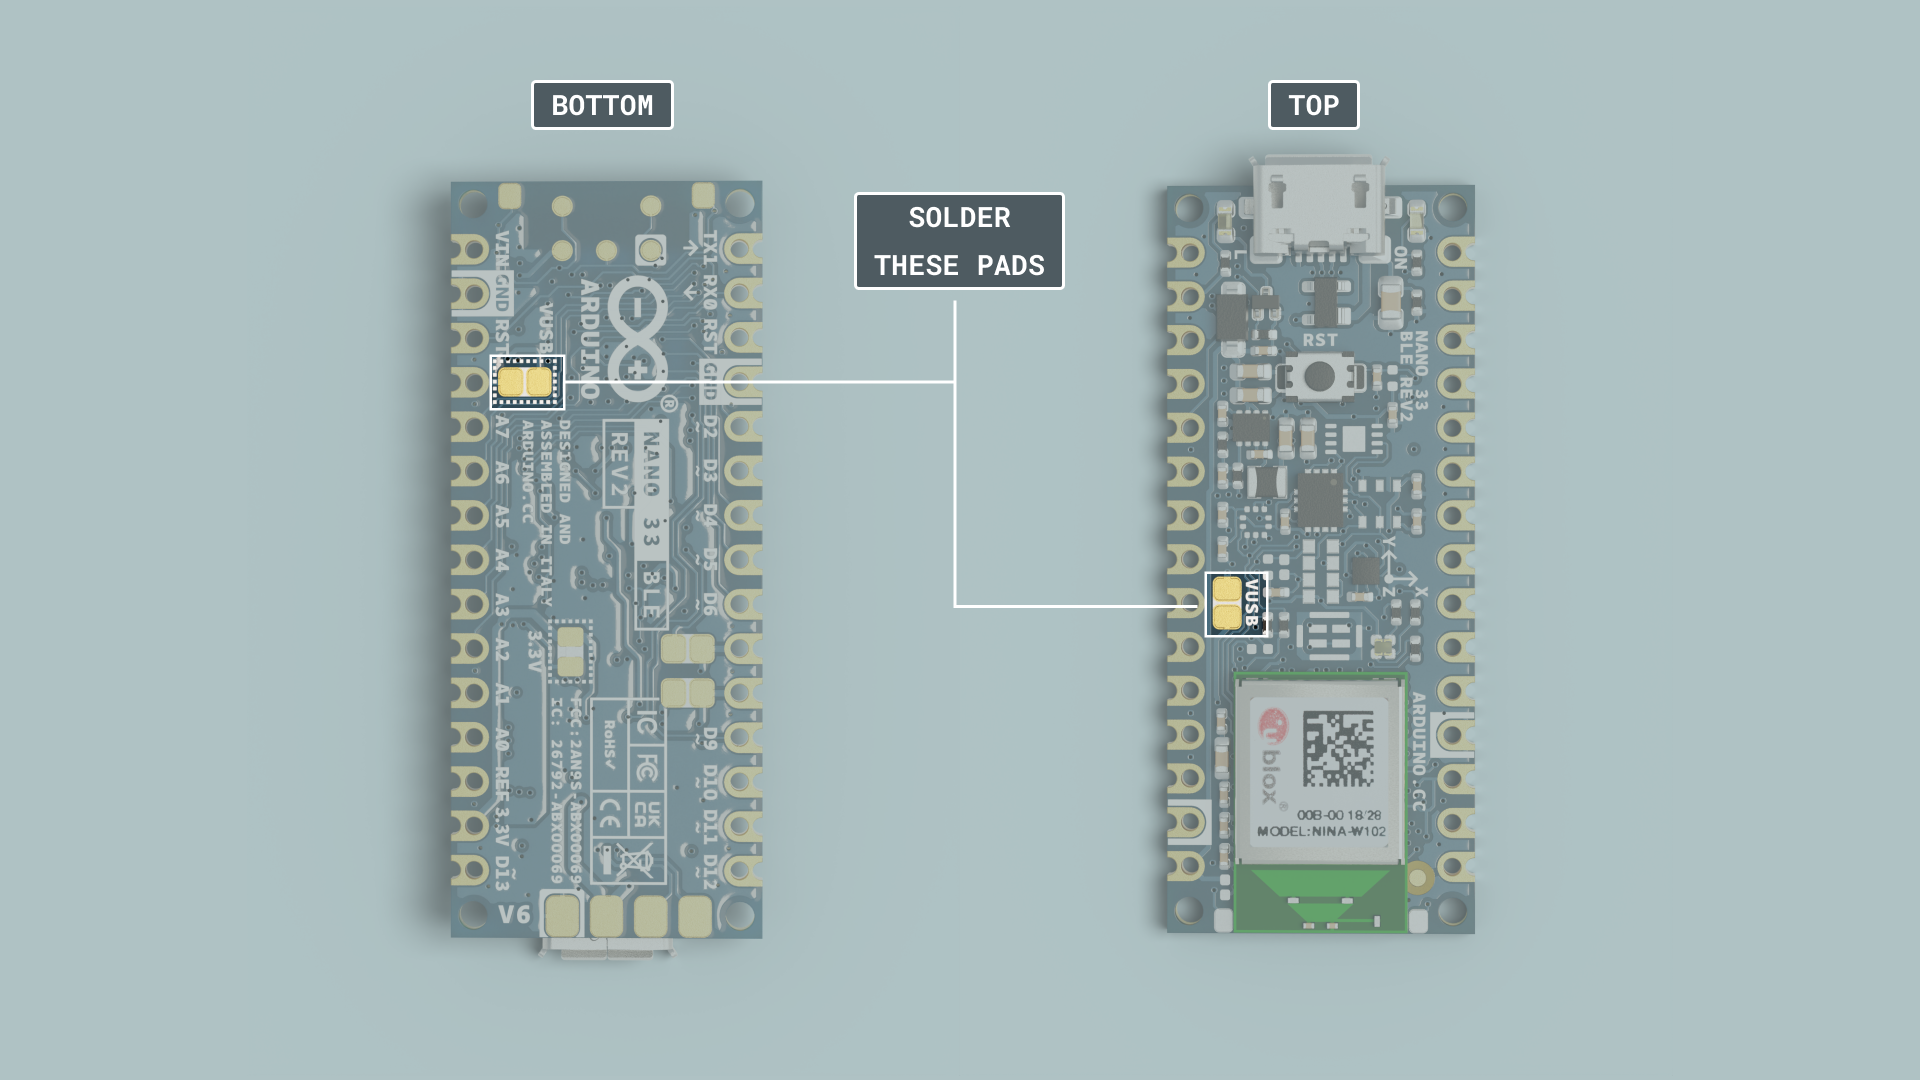
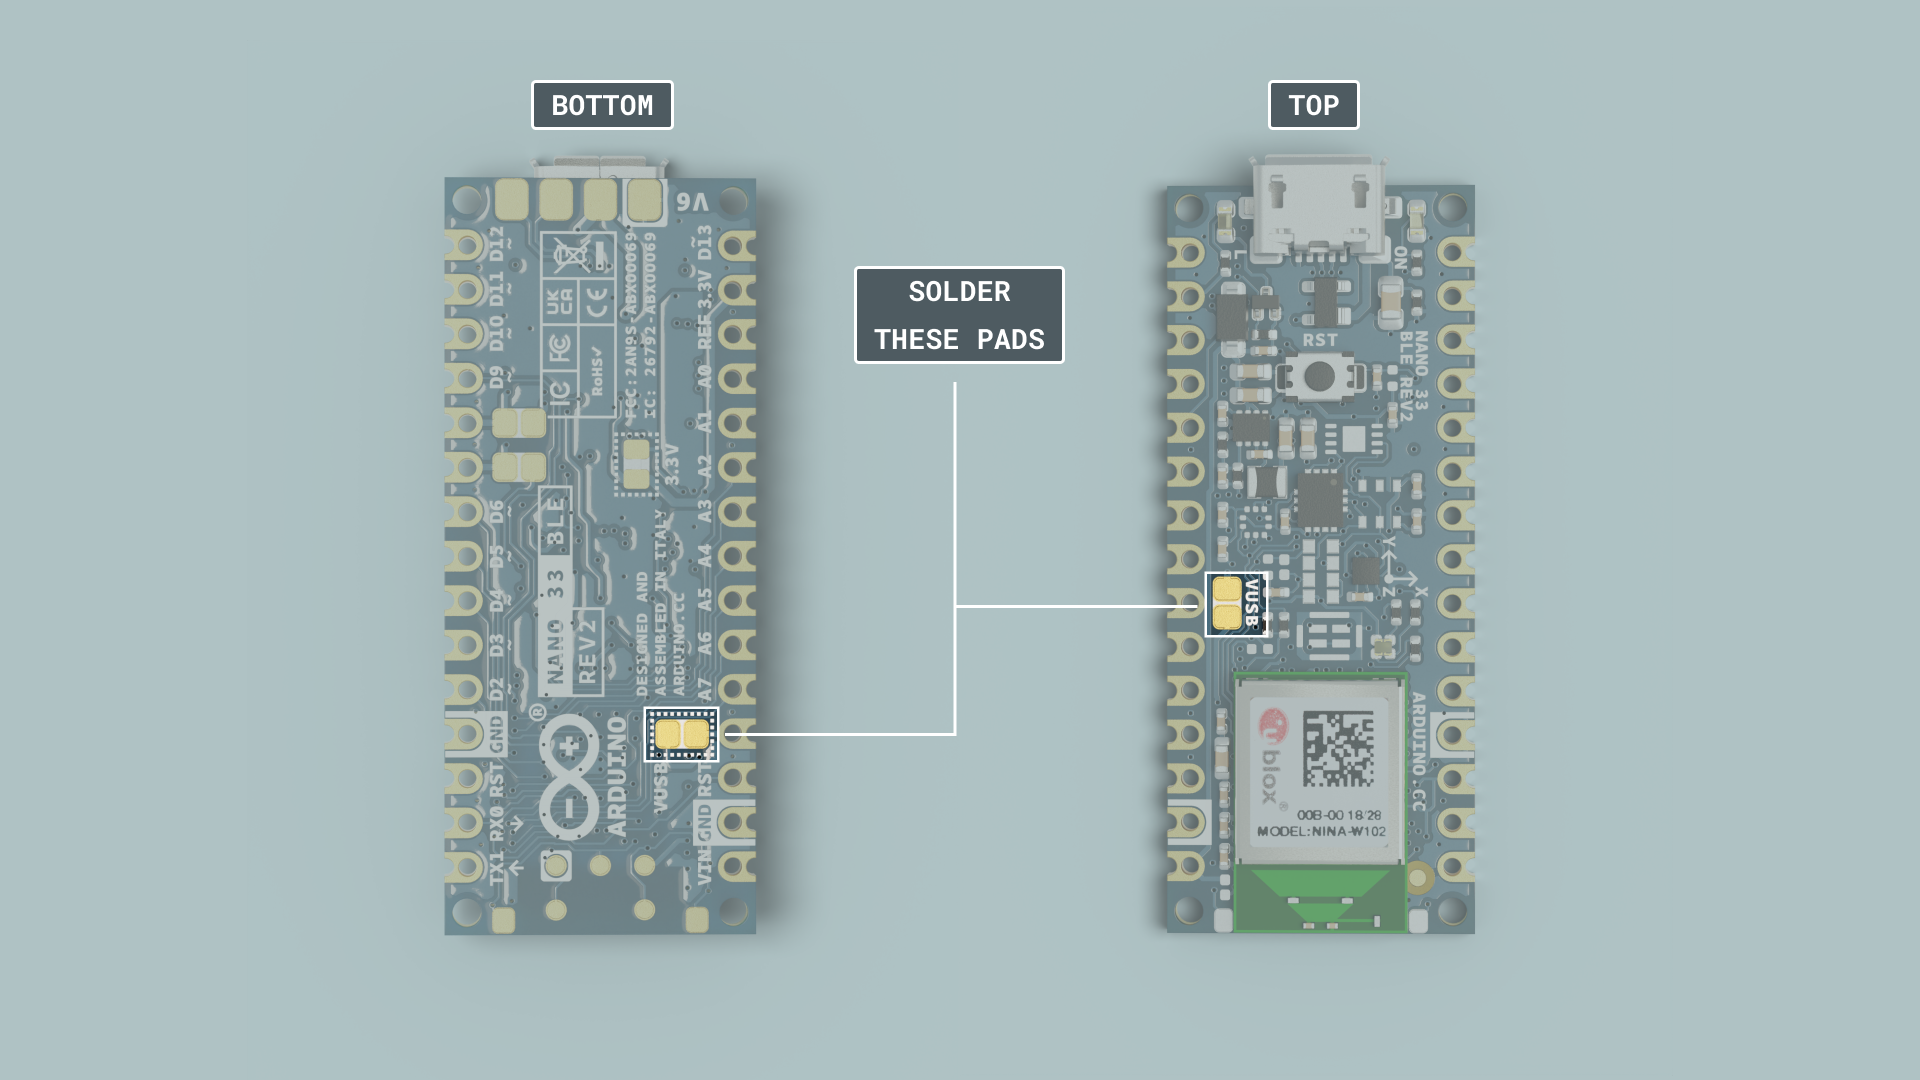
update assets

Changed region(s): [[0.2188, 0.1222, 0.5625, 0.8861], [0.4688, 0.6722, 0.5, 0.7028]]

diff --git a/content/hardware/03.nano/boards/nano-33-ble-rev2/tutorials/cheat-sheet/ble-cheat-sheet.md b/content/hardware/03.nano/boards/nano-33-ble-rev2/tutorials/cheat-sheet/ble-cheat-sheet.md
@@ -137,11 +137,11 @@ To avoid such risk with existing projects, where you should be able to pull out 
 
 5V on that pin is available only when two conditions are met: you make a solder bridge on the two pads marked as VUSB and you power the Nano 33 BLE Rev2 through the USB port. There are two sets of VUSB pads on the Arduino Nano 33 BLE Rev2, one set on the bottom and one set on top. To enable the 5V Pin, either one of these needs to be connected If you power the board from the VIN pin, you won't get any regulated 5V and therefore even if you do the solder bridge, nothing will come out of that 5V pin. The 3.3V, on the other hand, is always available and supports enough current to drive your sensors. Please make your designs so that sensors and actuators are driven with 3.3V and work with 3.3V digital IO levels. 5V is now an option for many modules and 3.3V is becoming the standard voltage for electronic ICs.
 
-![Soldering the VUSB pins.](assets/TEST_Nano33_ble_rev2vusb.png)
+![Soldering the VUSB pins.](./assets/Nano33_ble_rev2vusb.png)
 
 ## IMU
 
-![IMU sensor](assets/TEST_Nano33_ble_rev2_imu.png)
+![IMU sensor](./assets/Nano33_ble_rev2_imu.png)
 
 ### BMI270 and BMM150
 
@@ -308,7 +308,7 @@ Serial1.write("Hello world!");
 
 The Nano 33 BLE Rev2 supports Bluetooth® through the [u-blox NINA-B306](https://docs.arduino.cc/resources/datasheets/NINA-B3-series.pdf) module. To use this module, we can use the [ArduinoBLE](https://www.arduino.cc/en/Reference/ArduinoBLE) library. 
 
-![ Bluetooth® module.](assets/TEST_Nano33_ble_rev2_ble.png)
+![ Bluetooth® module.](assets/Nano33_ble_rev2_ble.png)
 
 ## Bluetooth®
 
